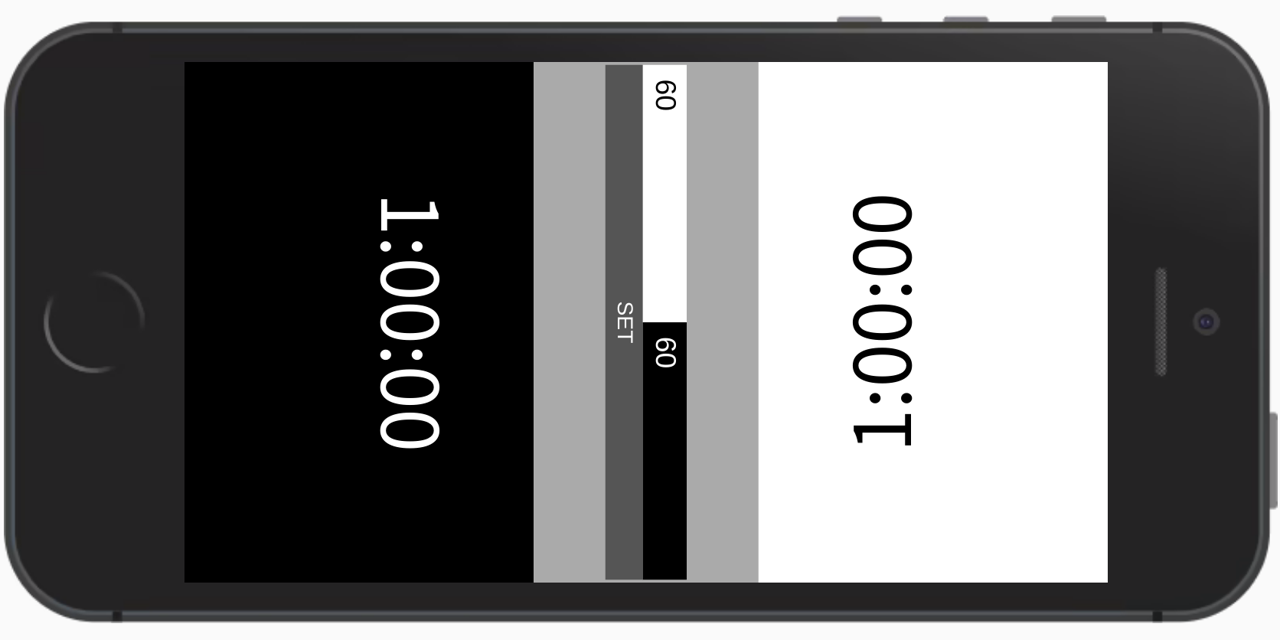
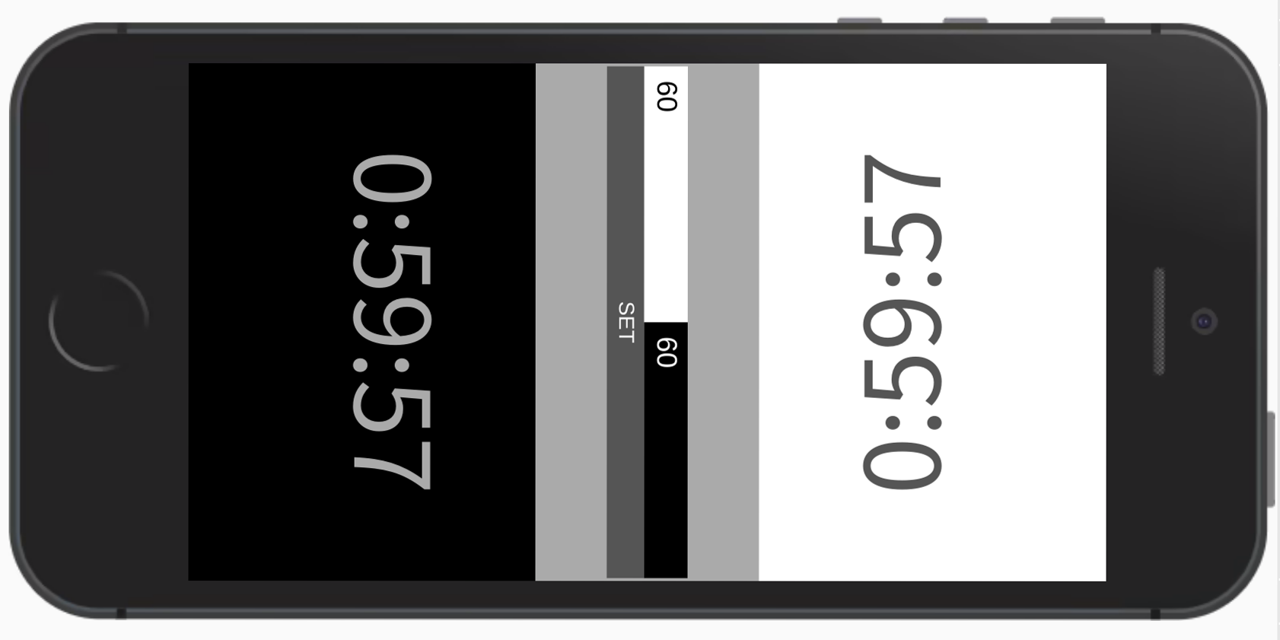
fix: page design

diff --git a/index.css b/index.css
@@ -11,11 +11,11 @@ main {
 
 .white {
     background-color: white;
-    color: black;
+    color: #555;
 }
 .black {
     background-color: black;
-    color: white;
+    color: #aaa;
 }
 
 input[type="radio"] {
@@ -56,7 +56,7 @@ input[type="radio"]:checked + .pause .pause-label {
     display: flex;
     justify-content: center;
     align-content: center;
-    font-size: 300%;
+    font-size: 400%;
     padding: 32px 12px;
     transition: flex .2s;
     border: 6px solid transparent
@@ -100,6 +100,12 @@ input[type="radio"]:checked + .pause .settings {
     width: 8em;
     max-width: 100%;
     padding: .2em .5em;
+}
+.settings .white {
+    color: black;
+}
+.settings .black {
+    color: white;
 }
 .settings button {
     background-color: #555;

diff --git a/index.html b/index.html
@@ -18,7 +18,7 @@
     <body>
         <main>
             <input type="radio" id="white-time" class="white radio" name="button" />
-            <label for="white-time" class="white time"></label>
+            <label for="white-time" class="white time">1:00:00</label>
 
             <input type="radio" id="pause-button" name="button" checked />
             <label for="pause-button" class="pause">
@@ -35,7 +35,7 @@
             </label>
 
             <input type="radio" id="black-time" class="black radio" name="button" />
-            <label for="black-time" class="black time"></label>
+            <label for="black-time" class="black time">1:00:00</label>
         </main>
 
         <script>
